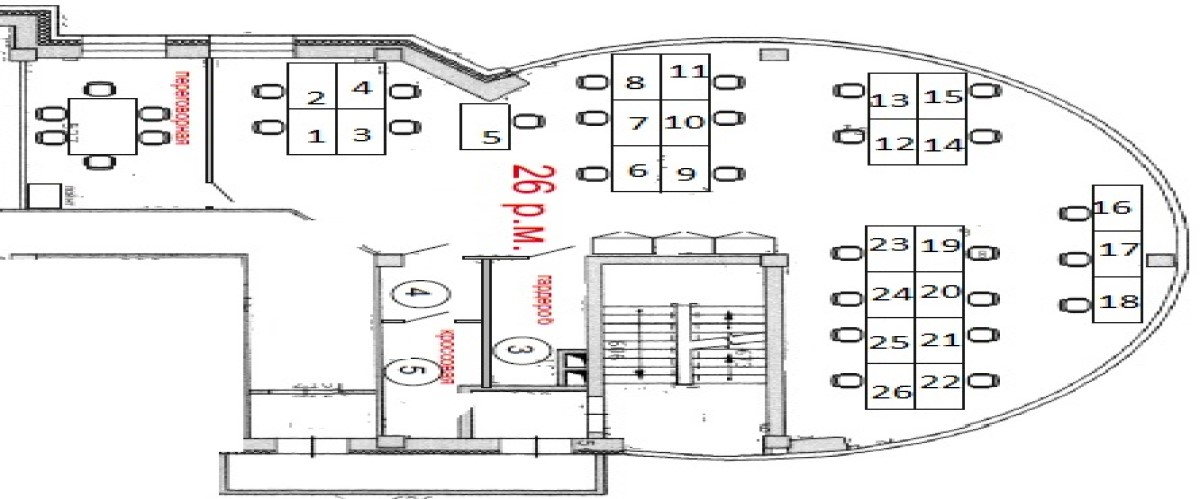
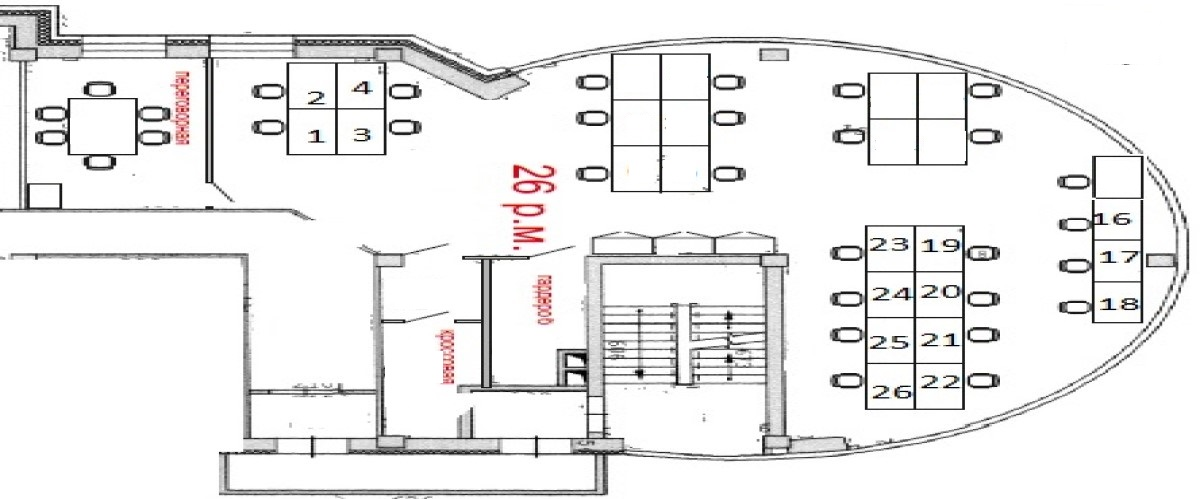
Поправил 5 этаж и фильтр

diff --git a/src/components/nav_bar.jsx b/src/components/nav_bar.jsx
@@ -1,7 +1,7 @@
 import React from 'react';
 import AppBar from "@material-ui/core/AppBar";
 import Toolbar from "@material-ui/core/Toolbar";
-import {Button, Grid, Avatar} from "@material-ui/core";
+import {Button, Grid, Avatar, Container} from "@material-ui/core";
 import PropTypes from "prop-types";
 import {NavLink} from "react-router-dom";
 import {LOGIN_ROUTE} from "../const.js";
@@ -28,18 +28,21 @@ const Navbar = (props) => {
           </Grid>
         </Toolbar>
         :
-        <Toolbar container="true" variant={`dense`}>
-          <Grid container justify={`flex-start`}>
-            <NavLink container="true" to={`/`} style={{background: `lightgray`, border: `none`, boxShadow: `none`}}>
-              <Button size={`small`} variant={`contained`} style={{width: `144px`}}>Главное меню</Button>
-            </NavLink>
-          </Grid>
-          <Grid container justify={`flex-end`}>
-            <NavLink container="true" to={LOGIN_ROUTE} style={{background: `lightgray`, border: `none`, boxShadow: `none`}}>
-              <Button variant={`contained`} size={`small`}>Логин</Button>
-            </NavLink>
-          </Grid>
-        </Toolbar>
+        <Container fixed>
+          <Toolbar container="true" variant={`dense`}>
+
+            <Grid container justify={`flex-start`}>
+              <NavLink container="true" to={`/`} style={{background: `lightgray`, border: `none`, boxShadow: `none`}}>
+                <Button size={`small`} variant={`contained`} style={{width: `144px`}}>Главное меню</Button>
+              </NavLink>
+            </Grid>
+            <Grid container justify={`flex-end`}>
+              <NavLink container="true" to={LOGIN_ROUTE} style={{background: `lightgray`, border: `none`, boxShadow: `none`}}>
+                <Button variant={`contained`} size={`small`}>Логин</Button>
+              </NavLink>
+            </Grid>
+          </Toolbar>
+        </Container>
       }
     </AppBar >
   );

diff --git a/src/components/left_popup.jsx b/src/components/left_popup.jsx
@@ -150,6 +150,8 @@ const LeftPopup = (props) => {
                 <option value="Корус">Корус</option>
                 <option value="ПОС">ПОС</option>
                 <option value="Масс">Масс</option>
+                <option value="КАШ">КАШ</option>
+                <option value="Тест">Тест</option>
               </select>
             </fieldset>
             <fieldset className="popup-form__element" disabled={!isActive} title="Переезд или Остаёться">

diff --git a/src/components/map_filter.jsx b/src/components/map_filter.jsx
@@ -72,6 +72,8 @@ class MapFilter extends PureComponent {
             <option value="Благо">Благо</option>
             <option value="ПОС">ПОС</option>
             <option value="Масс">Масс</option>
+            <option value="КАШ">КАШ</option>
+            <option value="Тест">Тест</option>
           </select>
           <select name="type-otdel" id="type-otdel" className="space__filter" defaultValue="any"
             ref={this.otdelRef}

diff --git a/src/components/ad_form.tsx b/src/components/ad_form.tsx
@@ -190,6 +190,8 @@ class AdForm extends React.PureComponent<AdFormProps, State> {
             <option value="Корус">Корус</option>
             <option value="ПОС">ПОС</option>
             <option value="Масс">Масс</option>
+            <option value="КАШ">КАШ</option>
+            <option value="Тест">Тест</option>
           </select>
         </fieldset>
         <fieldset className="ad-form__element ad-form__element--time">

diff --git a/src/components/backend.js b/src/components/backend.js
@@ -17,6 +17,9 @@ const onLoadForm = async (activeOffice, firestore) => {
     );
     return places;
     // добавь фильтр через then что бы id отображалась
+  })
+  .catch((error) => {
+    console.error(`Error loading document: `, error);
   });
 };
 /**
